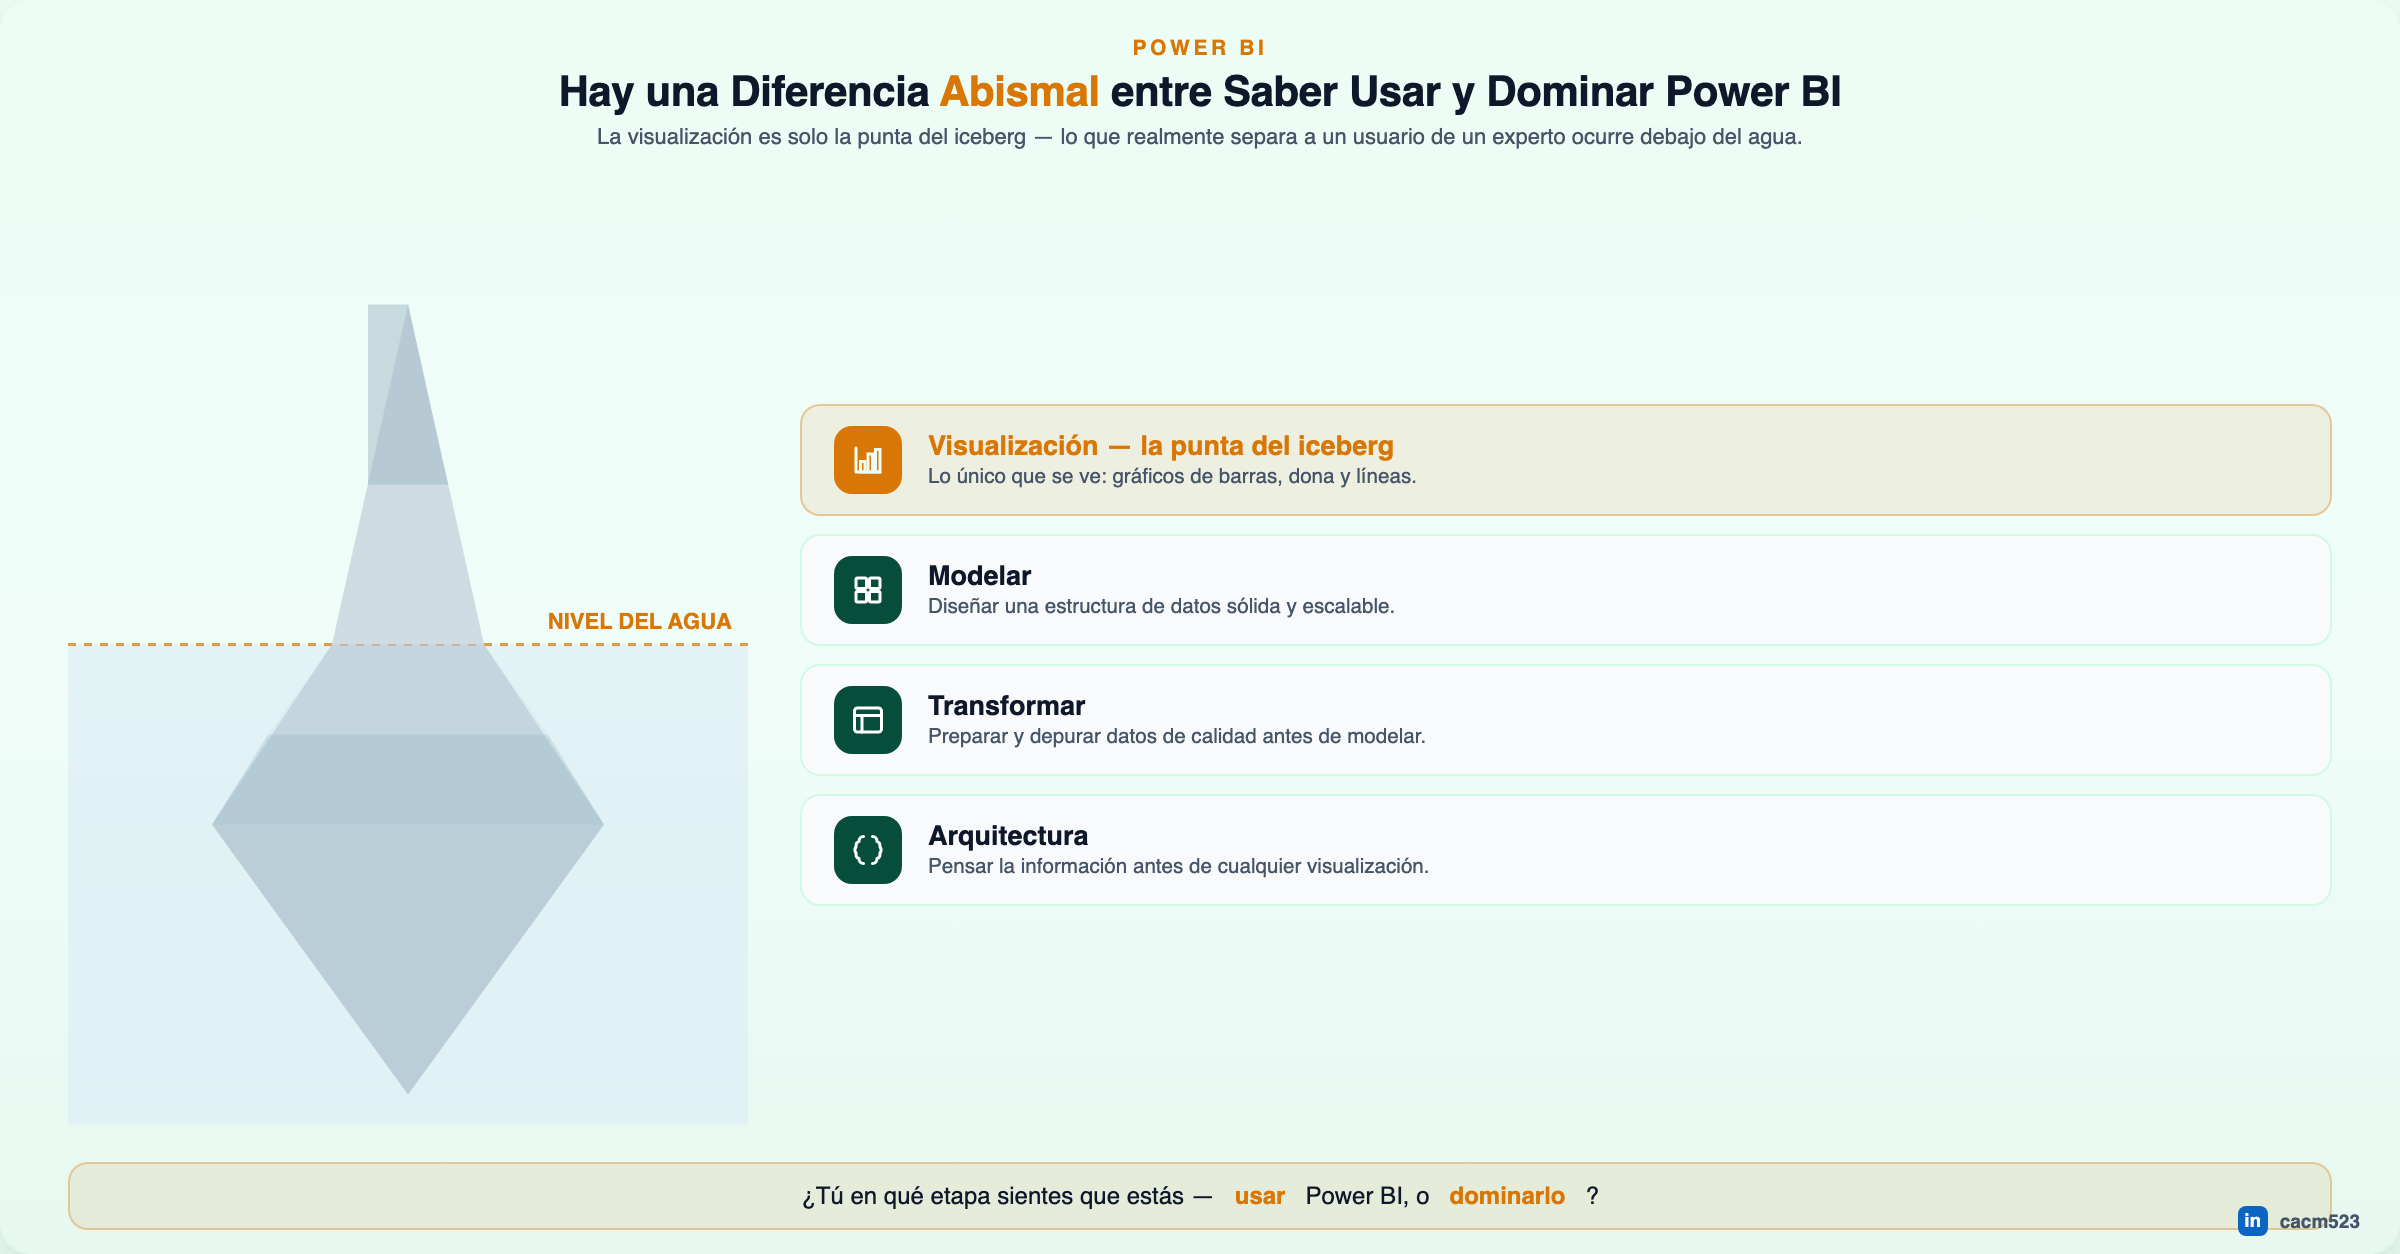
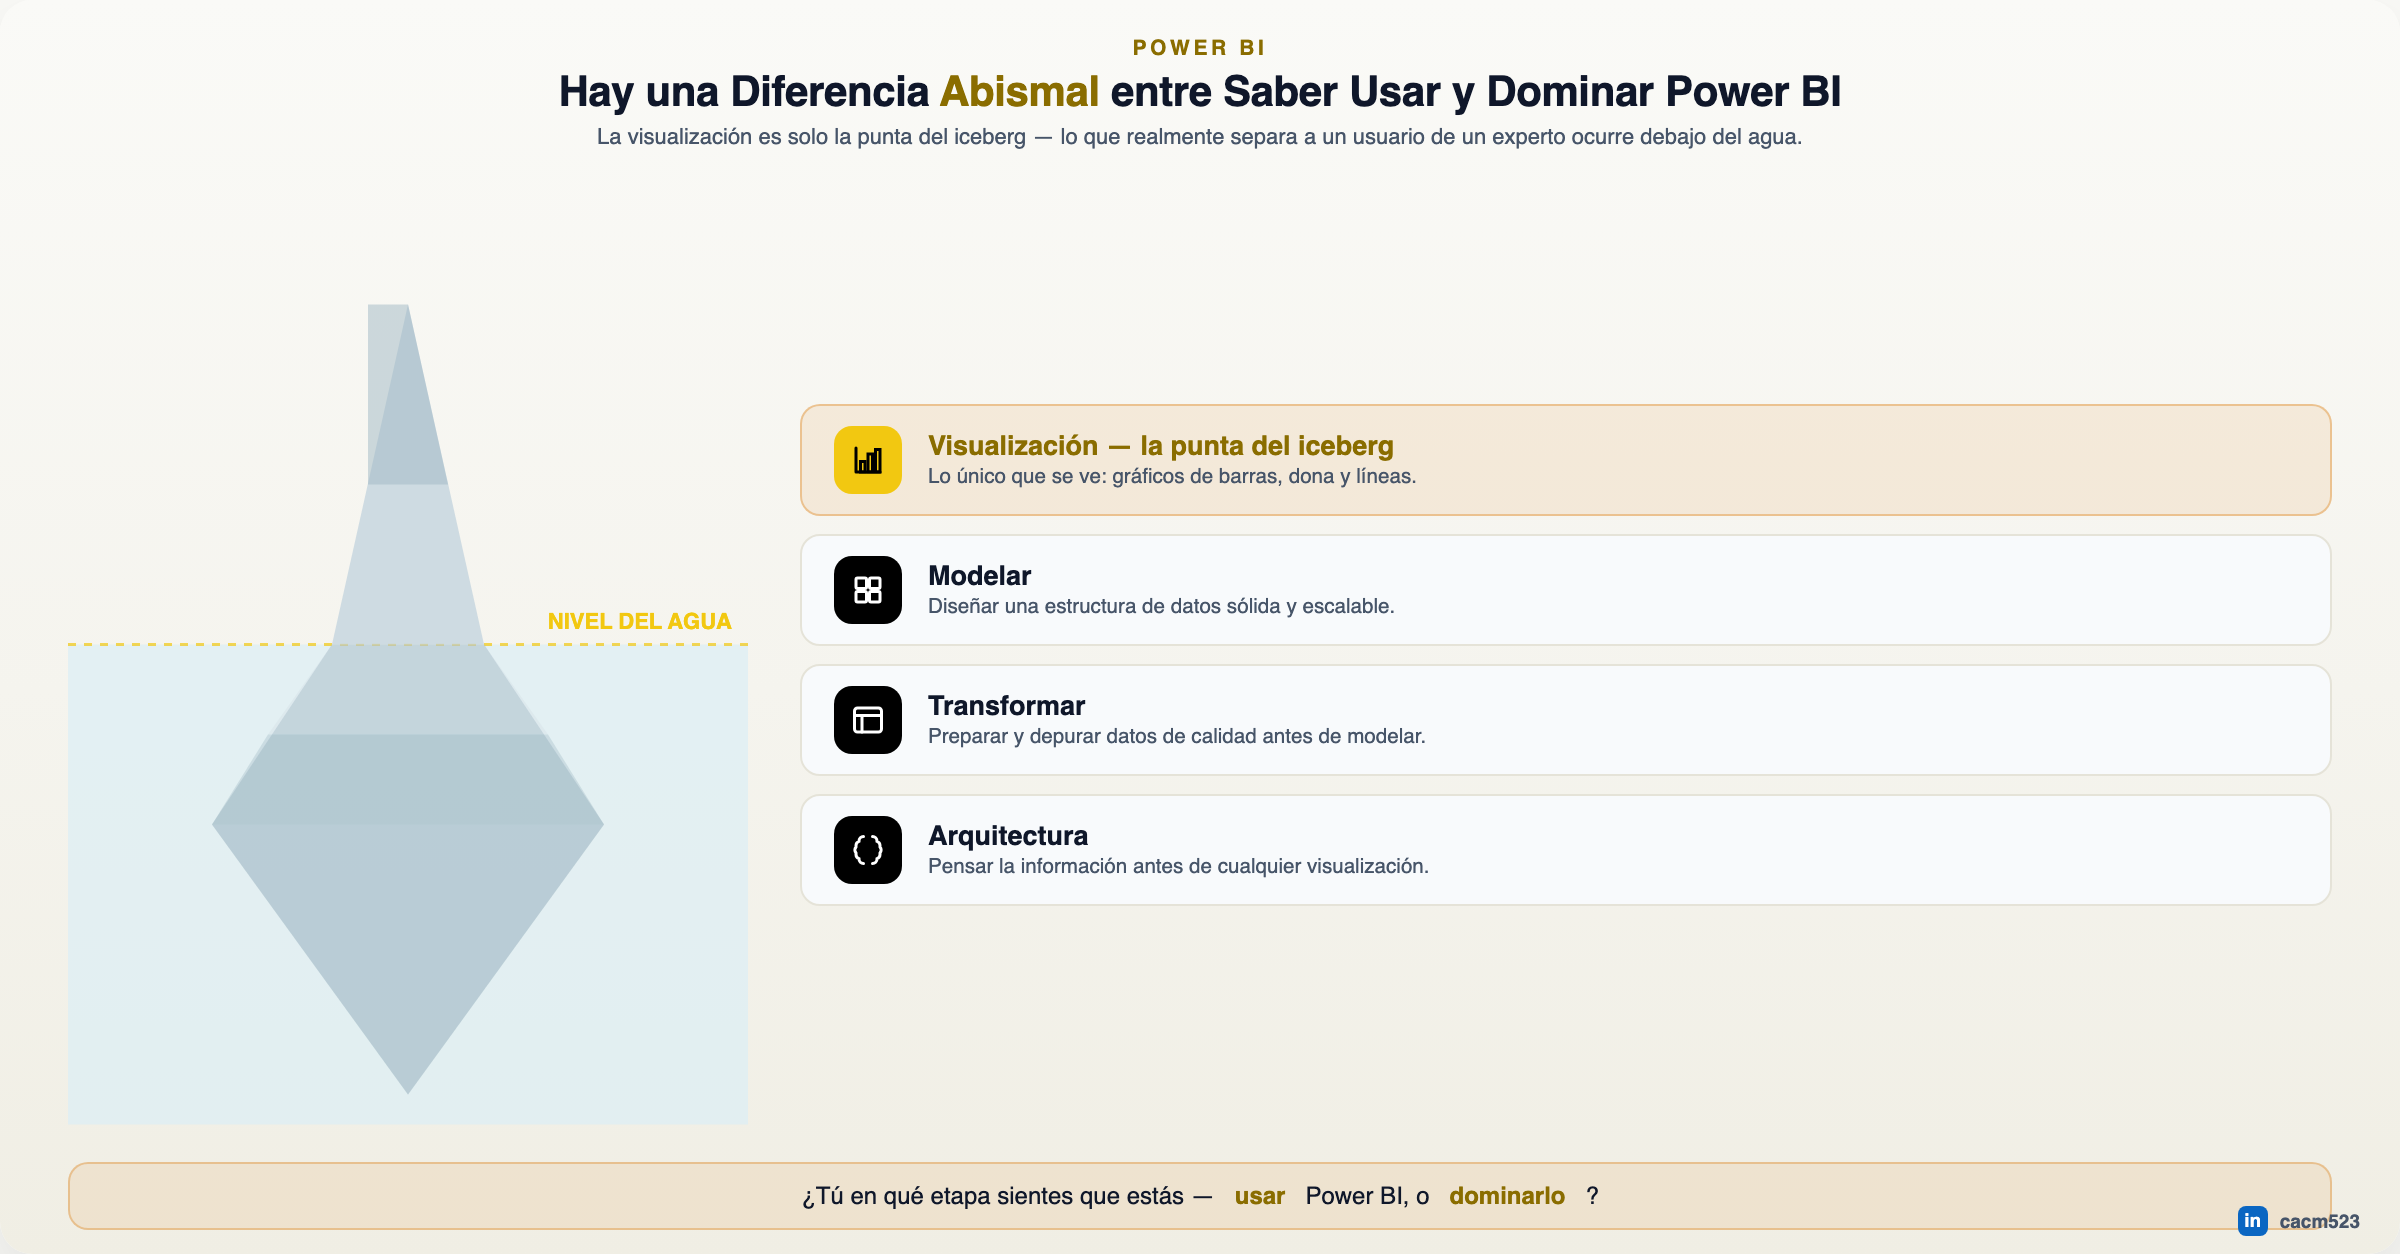
Aplica colores de marca Power BI (dorado+negro) a 3 piezas
- usar-dominar-power-bi, integracion-python-power-bi, power-bi-design-files-dashboards: recoloreadas de verde+tierra (incorrecto) a dorado/negro oficial de Power BI
- integracion-python-power-bi combina además el azul de Python (línea de datos reales) con el dorado de Power BI (línea de predicción), por tratar ambas marcas en una misma pieza

diff --git a/Construidos/PowerBI/usar-dominar-power-bi.html b/Construidos/PowerBI/usar-dominar-power-bi.html
@@ -6,8 +6,8 @@
 <meta name="viewport" content="width=device-width, initial-scale=1">
 <style>
   :root{
-    --gold:#D97706; --gold-dark:#B45309;
-    --navy:#ECFDF5; --navy2:#F0FDF9; --deep:#E6F8F0;
+    --gold:#F2C811; --gold-dark:#8A6D00;
+    --navy:#FAFAF7; --navy2:#F5F4EE; --deep:#F0EEE4;
     --ice:#CBD9E0; --ice2:#9FB8C4;
     --ink:#0F172A; --muted:#475569; --white:#0F172A;
   }
@@ -15,22 +15,22 @@
   html,body{margin:0;padding:0;}
   body{
     min-height:627px; display:flex; align-items:center; justify-content:center;
-    padding:32px 16px; background:#ECFDF5;
+    padding:32px 16px; background:#FAFAF7;
     font-family: Inter, -apple-system, "Segoe UI", Roboto, Helvetica, Arial, sans-serif;
   }
   .canvas-wrap{ width:100%; max-width:1200px; overflow-x:auto; }
   .canvas{
     position:relative; width:1200px; height:627px; margin:0 auto;
     background:linear-gradient(180deg, var(--navy) 0%, var(--navy2) 55%, var(--deep) 100%);
-    border-radius:16px; box-shadow:0 20px 50px rgba(6,78,59,0.16); overflow:hidden;
+    border-radius:16px; box-shadow:0 20px 50px rgba(0,0,0,0.12); overflow:hidden;
     padding:18px 34px 12px; color:var(--white);
     display:flex; flex-direction:column; min-height:0;
   }
 
   .header{ text-align:center; margin-bottom:8px; }
-  .header .eyebrow{ font-size:10.5px; font-weight:700; letter-spacing:1.8px; color:var(--gold); text-transform:uppercase; margin-bottom:4px; }
+  .header .eyebrow{ font-size:10.5px; font-weight:700; letter-spacing:1.8px; color:var(--gold-dark); text-transform:uppercase; margin-bottom:4px; }
   .header h1{ font-size:21px; margin:0 0 4px; font-weight:800; letter-spacing:-0.2px; }
-  .header h1 em{ font-style:normal; color:var(--gold); }
+  .header h1 em{ font-style:normal; color:var(--gold-dark); }
   .header p{ margin:0 auto; font-size:11px; color:var(--muted); max-width:720px; }
 
   .main{ flex:1; min-height:0; display:flex; align-items:center; gap:26px; }
@@ -40,13 +40,13 @@
   .legend{ flex:1; display:flex; flex-direction:column; gap:9px; height:100%; justify-content:center; }
   .lrow{ display:flex; align-items:center; gap:13px; padding:10px 16px; border-radius:10px; }
   .lrow.tip{ background:rgba(217,119,6,0.10); border:1px solid rgba(217,119,6,0.35); }
-  .lrow.deep{ background:#F8FAFC; border:1px solid #D1FAE5; }
+  .lrow.deep{ background:#F8FAFC; border:1px solid #E5E3D8; }
   .lrow .icon{ width:34px; height:34px; border-radius:9px; display:flex; align-items:center; justify-content:center; flex:none; }
-  .lrow.tip .icon{ background:var(--gold); color:var(--navy); }
-  .lrow.deep .icon{ background:#064E3B; color:#ffffff; }
+  .lrow.tip .icon{ background:var(--gold); color:#000; }
+  .lrow.deep .icon{ background:#000000; color:#ffffff; }
   .lrow .icon svg{ width:18px; height:18px; }
   .lrow b{ display:block; font-size:13.5px; font-weight:800; }
-  .lrow.tip b{ color:var(--gold); }
+  .lrow.tip b{ color:var(--gold-dark); }
   .lrow.deep b{ color:var(--ink); }
   .lrow span{ display:block; font-size:10.3px; color:var(--muted); line-height:1.3; margin-top:1px; }
 
@@ -54,7 +54,7 @@
     margin-top:9px; display:flex; align-items:center; justify-content:center; gap:10px;
     background:rgba(217,119,6,0.10); border:1px solid rgba(217,119,6,0.32); color:var(--ink); border-radius:10px; padding:9px 18px; font-size:12px; text-align:center;
   }
-  .ribbon b{ color:var(--gold); }
+  .ribbon b{ color:var(--gold-dark); }
 
   .footer{ position:absolute; bottom:9px; right:20px; display:flex; align-items:center; gap:6px; }
   .li-badge{ width:15px; height:15px; border-radius:4px; background:#0A66C2; color:#fff; display:flex; align-items:center; justify-content:center; font-size:9.5px; font-weight:800; font-family: Arial, sans-serif; }

diff --git a/Construidos/PowerBI/integracion-python-power-bi.html b/Construidos/PowerBI/integracion-python-power-bi.html
@@ -6,15 +6,15 @@
 <meta name="viewport" content="width=device-width, initial-scale=1">
 <style>
   :root{
-    --gold:#D97706; --gold-dark:#B45309; --gold-pale:#FBEEE0;
-    --py-blue:#047857; --py-yellow:#34D399;
+    --gold:#F2C811; --gold-dark:#8A6D00; --gold-pale:#FEF9E7;
+    --py-blue:#3776AB; --py-yellow:#FFD43B;
     --ink:#1D2129; --muted:#5C6470; --line:#E5E7EA; --white:#FFFFFF; --paper:#F7F8FA;
   }
   *{box-sizing:border-box;}
   html,body{margin:0;padding:0;}
   body{
     min-height:627px; display:flex; align-items:center; justify-content:center;
-    padding:32px 16px; background:#ECFDF5;
+    padding:32px 16px; background:#FAFAF7;
     font-family: Inter, -apple-system, "Segoe UI", Roboto, Helvetica, Arial, sans-serif;
   }
   .canvas-wrap{ width:100%; max-width:1200px; overflow-x:auto; }

diff --git a/Construidos/PowerBI/power-bi-design-files-dashboards.html b/Construidos/PowerBI/power-bi-design-files-dashboards.html
@@ -6,16 +6,16 @@
     <title>Power BI Dashboard Design & Architecture</title>
     <style>
         :root {
-            --primary: #10b981;
-            --primary-dark: #047857;
-            --primary-light: #d1fae5;
-            --primary-bg: #ecfdf5;
-            --accent: #d97706;
-            --accent-bg: #fffbeb;
+            --primary: #8A6D00;
+            --primary-dark: #000000;
+            --primary-light: #FEF9E7;
+            --primary-bg: #FFFDF7;
+            --accent: #F2C811;
+            --accent-bg: #FFFBEB;
             --text-main: #0f172a;
             --text-muted: #475569;
             --text-light: #94a3b8;
-            --bg-canvas: #f8fafc;
+            --bg-canvas: #FAFAF7;
             --bg-card: #ffffff;
             --border-color: rgba(15, 23, 42, 0.08);
         }
